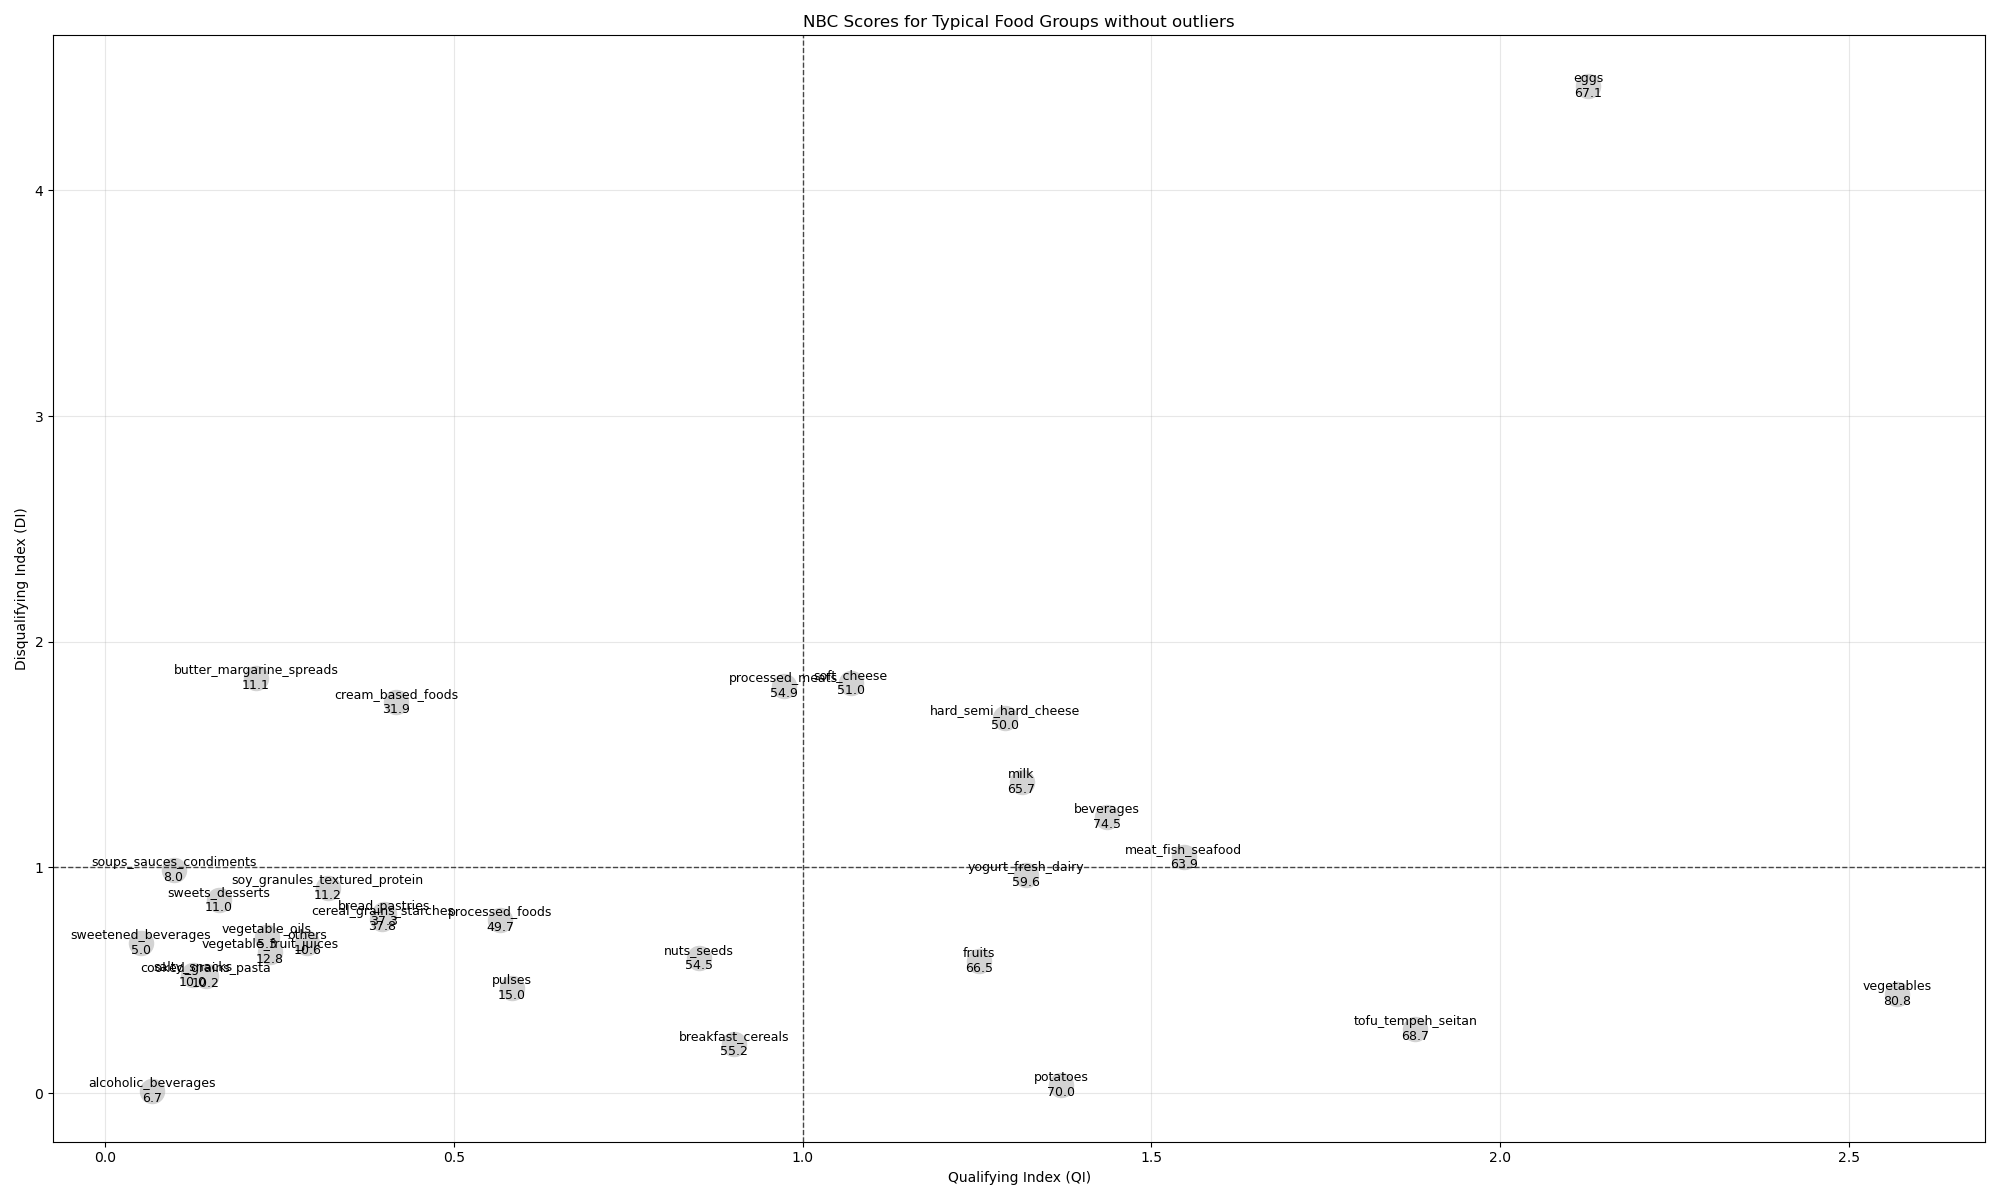
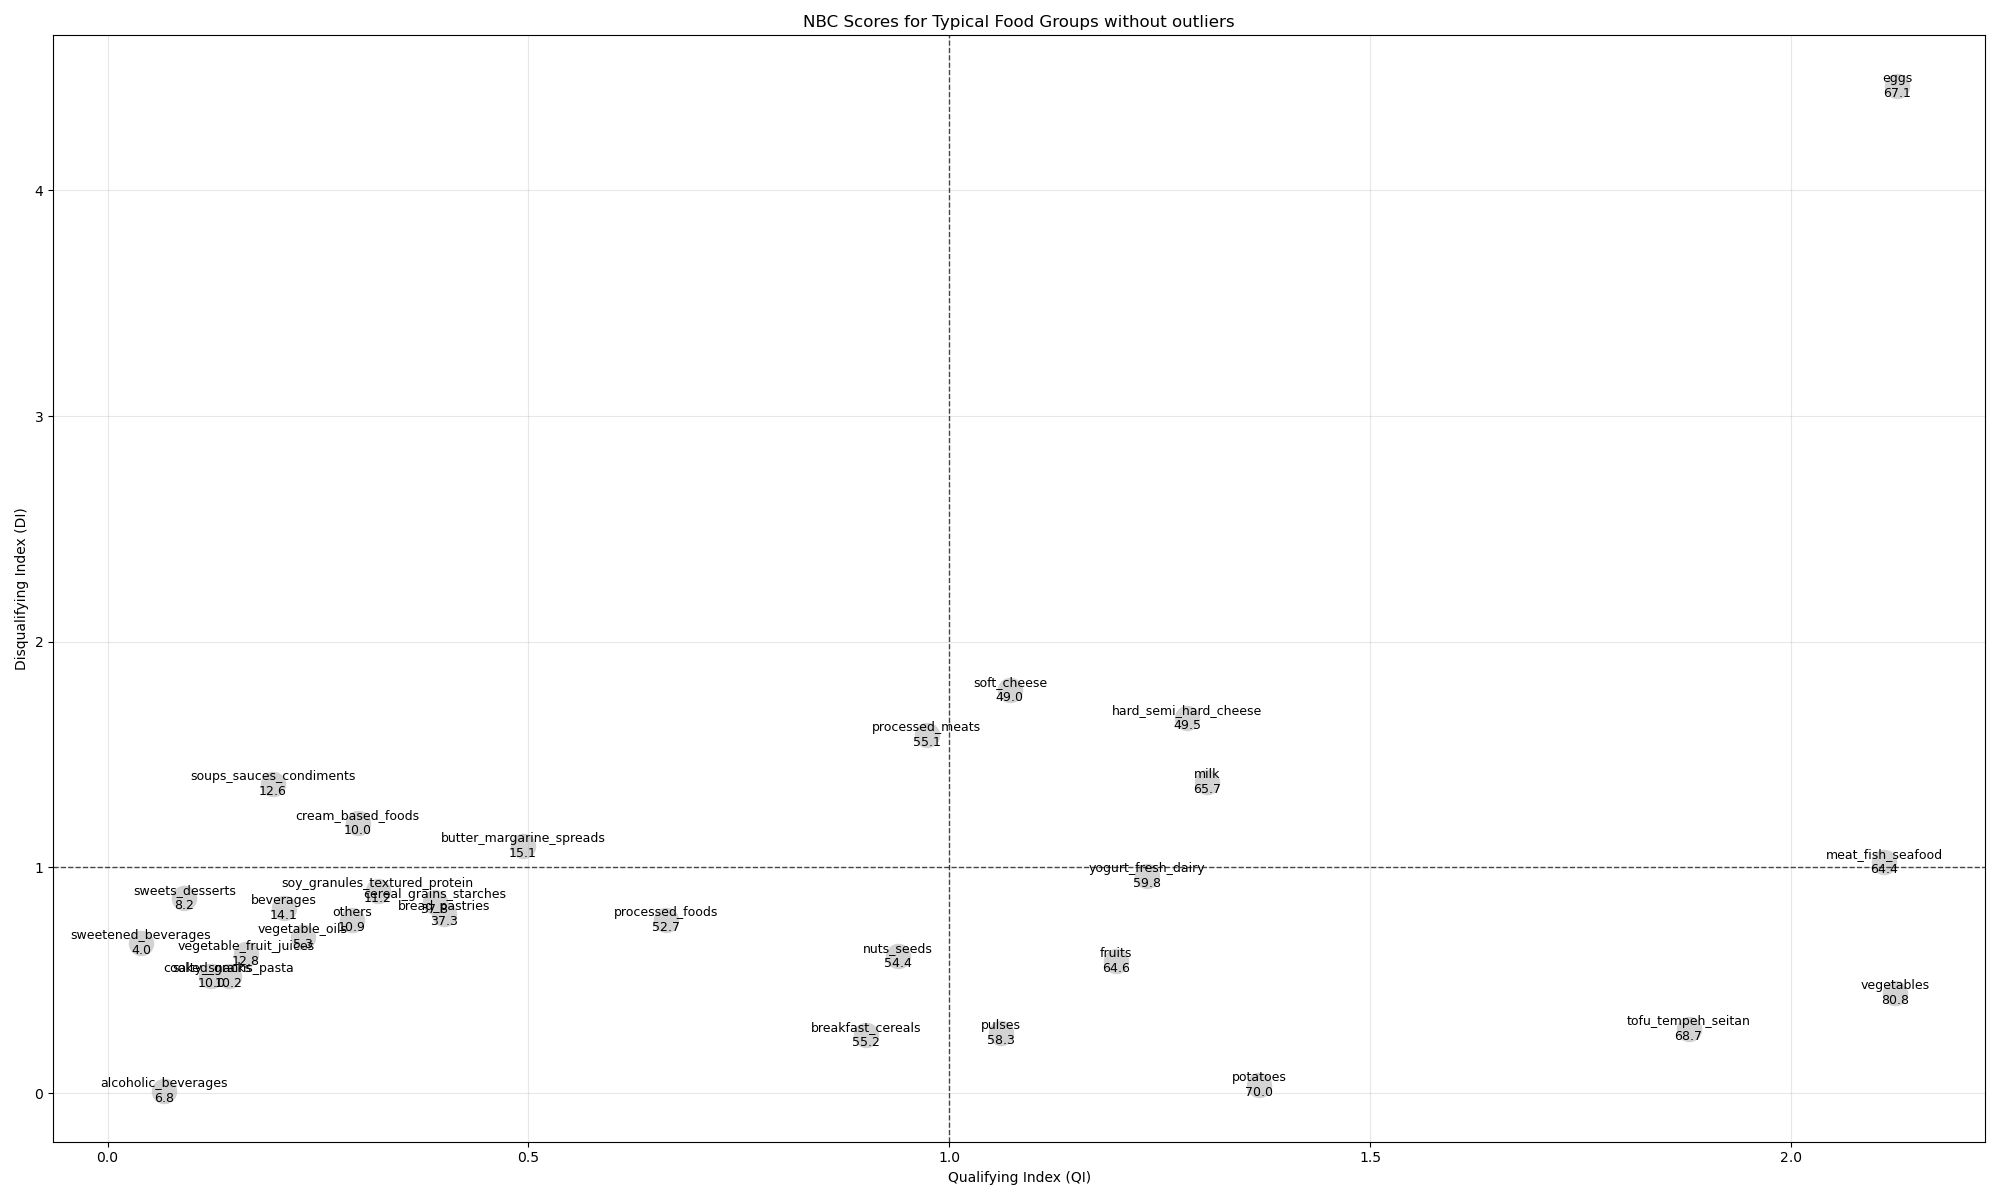
outliers and treshold (UL)

diff --git a/scripts/functions.py b/scripts/functions.py
@@ -72,11 +72,11 @@ def compute_nb(row, nutrient_cols, scaling_factor=2000) :
     nb_value =  (sum(truncated_ratios) / len(nutrient_cols)) * 100
     return nb_value
 
-
-def filter_implausible_nutrients(df, nutrient_info, conversion_factors):
+def filter_implausible_nutrients(df, nutrient_info, conversion_factors, max_dri_multiplier=3):
     """
-    Remove any rows from df where, for at least one nutrient in nutrient_info,
-    the eaten amount (converted to the DRI units) exceeds its DRI target.
+    Drops rows where nutrient value exceed :
+    - UL (if defined) or
+    - max_dri_multipplied x DRI (if UL is None )
     
     Parameters
     ----------
@@ -90,21 +90,36 @@ def filter_implausible_nutrients(df, nutrient_info, conversion_factors):
     """
     mask = pd.Series(True, index=df.index)       
 
-    for nutr, info in nutrient_info.items():
-        col = nutr                             
-        if col not in df.columns:
+    for nutr, info in nutrient_info.items():     
+        if nutr not in df.columns:
             # skup if not inside the DataFrame
+            print(f"Skipping {nutr} (not in DataFrame)") 
             continue
 
-        unit = info['unit']
-        target = info['target']
-        factor = conversion_factors[unit]
+        factor = conversion_factors[info['unit']]
+        converted = df[nutr] * factor
 
-        converted = df[col] * factor              
-        
-        mask &= (converted <= target) | converted.isna()
+        # Case 1 : UL exist 
+        ul = info['UL']
 
-    return df[mask]
+        print(f"\nNutrient: {nutr}")  # Debug: Show nutrient being processed
+        print(f"Raw max: {df[nutr].max()} {info['unit']}")  # Debug: Show raw max value
+        print(f"Converted max: {converted.max()} {info['unit']}")  # Debug: Show converted max
+        print(f"UL: {ul}")  # Debug: Show UL
+
+        if ul is not None:
+            print(f"Rows exceeding UL: {(converted > ul).sum()}")  # Debug: Count violations
+            mask &= (converted <= ul) | converted.isna()
+
+        # Case 2 : no UL
+        else:
+            dri = info['target']
+            max_plausible = dri * max_dri_multiplier
+            print(f"Rows exceeding {max_dri_multiplier}x DRI: {(converted > max_plausible).sum()}")  # Debug
+            mask &= (converted <= max_plausible) | converted.isna()
+    print(f"\nTotal rows dropped: {len(df) - mask.sum()}")  # Debug: Total rows removed
+    return df.loc[mask]
+
 
 
 def compute_qi_excluding(row, nutrient_list, exclude=None, scaling_factor=2000):
